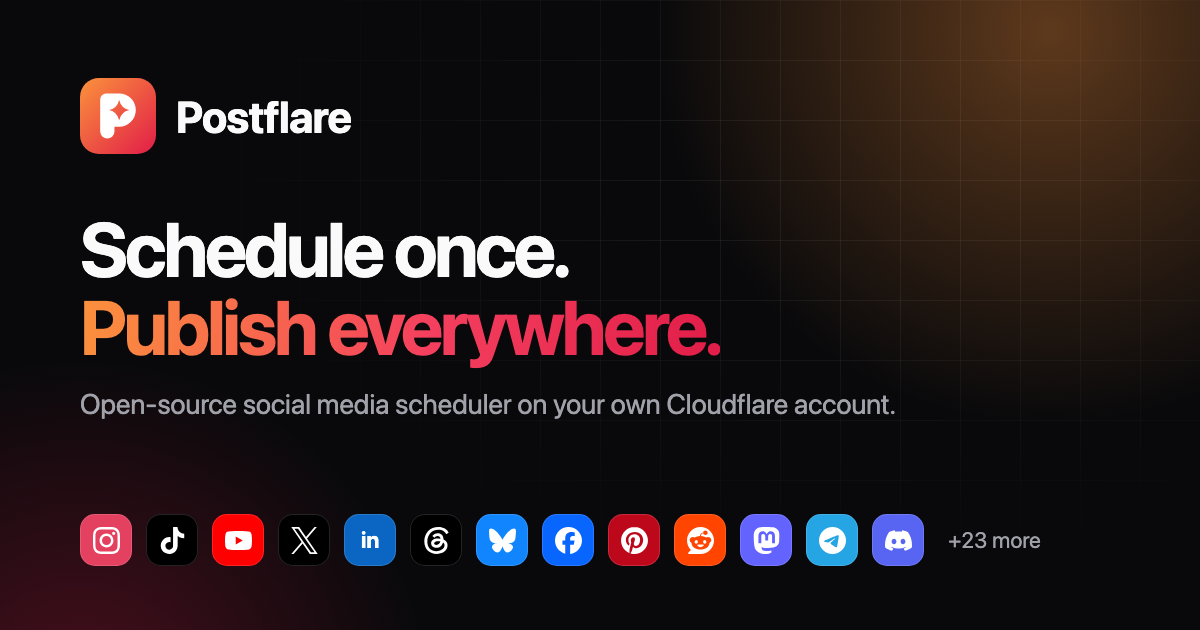
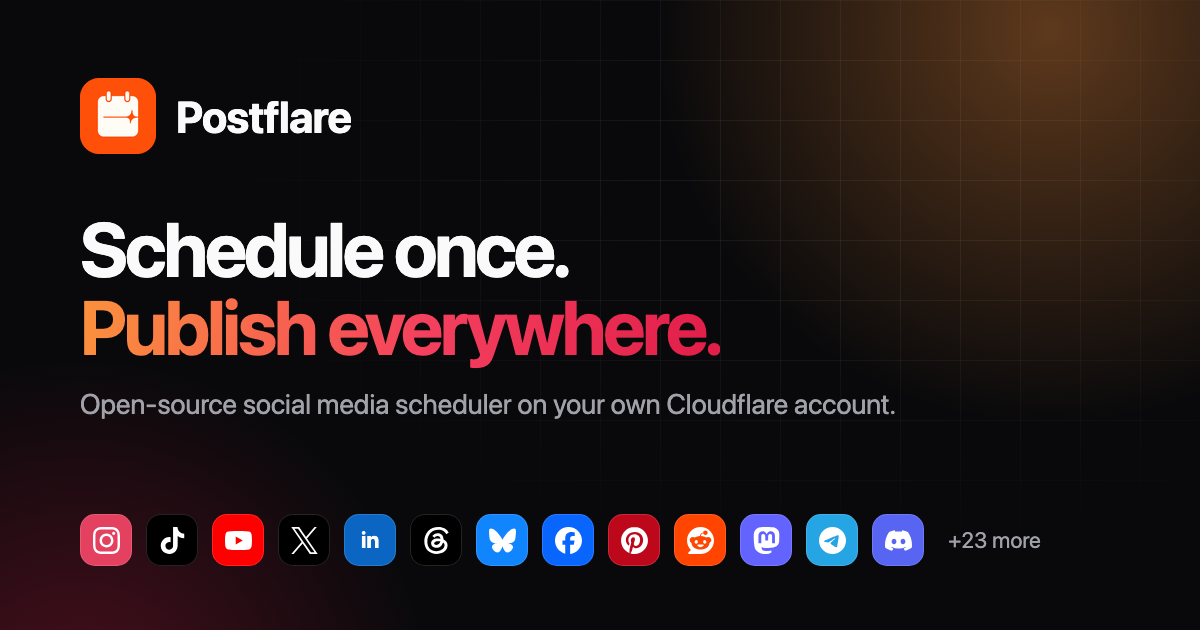
feat: new Postflare mark: a calendar page crossed by the flare on Cloudflare orange

Changed region(s): [[0.0617, 0.1206, 0.1542, 0.2413]]

diff --git a/public/landing/index.html b/public/landing/index.html
@@ -377,7 +377,7 @@ html[data-launched="false"] .nav .wrap{gap:18px}
 <body>
 <svg width="0" height="0" style="position:absolute" aria-hidden="true"><symbol id="i-instagram" viewBox="0 0 24 24"><path d="M7.0301.084c-1.2768.0602-2.1487.264-2.911.5634-.7888.3075-1.4575.72-2.1228 1.3877-.6652.6677-1.075 1.3368-1.3802 2.127-.2954.7638-.4956 1.6365-.552 2.914-.0564 1.2775-.0689 1.6882-.0626 4.947.0062 3.2586.0206 3.6671.0825 4.9473.061 1.2765.264 2.1482.5635 2.9107.308.7889.72 1.4573 1.388 2.1228.6679.6655 1.3365 1.0743 2.1285 1.38.7632.295 1.6361.4961 2.9134.552 1.2773.056 1.6884.069 4.9462.0627 3.2578-.0062 3.668-.0207 4.9478-.0814 1.28-.0607 2.147-.2652 2.9098-.5633.7889-.3086 1.4578-.72 2.1228-1.3881.665-.6682 1.0745-1.3378 1.3795-2.1284.2957-.7632.4966-1.636.552-2.9124.056-1.2809.0692-1.6898.063-4.948-.0063-3.2583-.021-3.6668-.0817-4.9465-.0607-1.2797-.264-2.1487-.5633-2.9117-.3084-.7889-.72-1.4568-1.3876-2.1228C21.2982 1.33 20.628.9208 19.8378.6165 19.074.321 18.2017.1197 16.9244.0645 15.6471.0093 15.236-.005 11.977.0014 8.718.0076 8.31.0215 7.0301.0839m.1402 21.6932c-1.17-.0509-1.8053-.2453-2.2287-.408-.5606-.216-.96-.4771-1.3819-.895-.422-.4178-.6811-.8186-.9-1.378-.1644-.4234-.3624-1.058-.4171-2.228-.0595-1.2645-.072-1.6442-.079-4.848-.007-3.2037.0053-3.583.0607-4.848.05-1.169.2456-1.805.408-2.2282.216-.5613.4762-.96.895-1.3816.4188-.4217.8184-.6814 1.3783-.9003.423-.1651 1.0575-.3614 2.227-.4171 1.2655-.06 1.6447-.072 4.848-.079 3.2033-.007 3.5835.005 4.8495.0608 1.169.0508 1.8053.2445 2.228.408.5608.216.96.4754 1.3816.895.4217.4194.6816.8176.9005 1.3787.1653.4217.3617 1.056.4169 2.2263.0602 1.2655.0739 1.645.0796 4.848.0058 3.203-.0055 3.5834-.061 4.848-.051 1.17-.245 1.8055-.408 2.2294-.216.5604-.4763.96-.8954 1.3814-.419.4215-.8181.6811-1.3783.9-.4224.1649-1.0577.3617-2.2262.4174-1.2656.0595-1.6448.072-4.8493.079-3.2045.007-3.5825-.006-4.848-.0608M16.953 5.5864A1.44 1.44 0 1 0 18.39 4.144a1.44 1.44 0 0 0-1.437 1.4424M5.8385 12.012c.0067 3.4032 2.7706 6.1557 6.173 6.1493 3.4026-.0065 6.157-2.7701 6.1506-6.1733-.0065-3.4032-2.771-6.1565-6.174-6.1498-3.403.0067-6.156 2.771-6.1496 6.1738M8 12.0077a4 4 0 1 1 4.008 3.9921A3.9996 3.9996 0 0 1 8 12.0077"/></symbol><symbol id="i-tiktok" viewBox="0 0 24 24"><path d="M12.525.02c1.31-.02 2.61-.01 3.91-.02.08 1.53.63 3.09 1.75 4.17 1.12 1.11 2.7 1.62 4.24 1.79v4.03c-1.44-.05-2.89-.35-4.2-.97-.57-.26-1.1-.59-1.62-.93-.01 2.92.01 5.84-.02 8.75-.08 1.4-.54 2.79-1.35 3.94-1.31 1.92-3.58 3.17-5.91 3.21-1.43.08-2.86-.31-4.08-1.03-2.02-1.19-3.44-3.37-3.65-5.71-.02-.5-.03-1-.01-1.49.18-1.9 1.12-3.72 2.58-4.96 1.66-1.44 3.98-2.13 6.15-1.72.02 1.48-.04 2.96-.04 4.44-.99-.32-2.15-.23-3.02.37-.63.41-1.11 1.04-1.36 1.75-.21.51-.15 1.07-.14 1.61.24 1.64 1.82 3.02 3.5 2.87 1.12-.01 2.19-.66 2.77-1.61.19-.33.4-.67.41-1.06.1-1.79.06-3.57.07-5.36.01-4.03-.01-8.05.02-12.07z"/></symbol><symbol id="i-youtube" viewBox="0 0 24 24"><path d="M23.498 6.186a3.016 3.016 0 0 0-2.122-2.136C19.505 3.545 12 3.545 12 3.545s-7.505 0-9.377.505A3.017 3.017 0 0 0 .502 6.186C0 8.07 0 12 0 12s0 3.93.502 5.814a3.016 3.016 0 0 0 2.122 2.136c1.871.505 9.376.505 9.376.505s7.505 0 9.377-.505a3.015 3.015 0 0 0 2.122-2.136C24 15.93 24 12 24 12s0-3.93-.502-5.814zM9.545 15.568V8.432L15.818 12l-6.273 3.568z"/></symbol><symbol id="i-x" viewBox="0 0 24 24"><path d="M14.234 10.162 22.977 0h-2.072l-7.591 8.824L7.251 0H.258l9.168 13.343L.258 24H2.33l8.016-9.318L16.749 24h6.993zm-2.837 3.299-.929-1.329L3.076 1.56h3.182l5.965 8.532.929 1.329 7.754 11.09h-3.182z"/></symbol><symbol id="i-facebook" viewBox="0 0 24 24"><path d="M9.101 23.691v-7.98H6.627v-3.667h2.474v-1.58c0-4.085 1.848-5.978 5.858-5.978.401 0 .955.042 1.468.103a8.68 8.68 0 0 1 1.141.195v3.325a8.623 8.623 0 0 0-.653-.036 26.805 26.805 0 0 0-.733-.009c-.707 0-1.259.096-1.675.309a1.686 1.686 0 0 0-.679.622c-.258.42-.374.995-.374 1.752v1.297h3.919l-.386 2.103-.287 1.564h-3.246v8.245C19.396 23.238 24 18.179 24 12.044c0-6.627-5.373-12-12-12s-12 5.373-12 12c0 5.628 3.874 10.35 9.101 11.647Z"/></symbol><symbol id="i-threads" viewBox="0 0 24 24"><path d="M18.263 11.097c-.03-3.486-1.92-5.586-5.111-5.586-2.13 0-3.922.963-4.863 2.499l2.062 1.438c.535-.843 1.272-1.543 2.628-1.543 1.528 0 2.318.85 2.544 2.431a15 15 0 0 0-2.236-.173c-4.125 0-6.068 1.867-6.068 4.336s1.943 3.99 4.804 3.99c3.139 0 5.013-2.115 5.781-4.735.798.361 1.348 1.204 1.348 2.47 0 3.387-3.907 5.232-7.22 5.232-4.885 0-8.077-3.207-8.077-8.424 0-6.392 4.223-10.487 9.9-10.487 3.808 0 5.69 1.671 6.97 3.914l2.108-1.475C21.44 2.078 18.331 0 13.663 0 6.227 0 1.168 5.277 1.168 12.934c0 7 4.953 11.066 10.856 11.066 4.878 0 9.809-2.846 9.809-7.716 0-2.545-1.46-4.231-3.569-5.187m-6.33 4.855c-1.077 0-2.026-.512-2.026-1.453 0-1.483 1.822-1.934 3.606-1.934.678 0 1.34.045 1.927.173-.422 1.927-1.671 3.215-3.508 3.214Z"/></symbol><symbol id="i-bluesky" viewBox="0 0 24 24"><path d="M5.202 2.857C7.954 4.922 10.913 9.11 12 11.358c1.087-2.247 4.046-6.436 6.798-8.501C20.783 1.366 24 .213 24 3.883c0 .732-.42 6.156-.667 7.037-.856 3.061-3.978 3.842-6.755 3.37 4.854.826 6.089 3.562 3.422 6.299-5.065 5.196-7.28-1.304-7.847-2.97-.104-.305-.152-.448-.153-.327 0-.121-.05.022-.153.327-.568 1.666-2.782 8.166-7.847 2.97-2.667-2.737-1.432-5.473 3.422-6.3-2.777.473-5.899-.308-6.755-3.369C.42 10.04 0 4.615 0 3.883c0-3.67 3.217-2.517 5.202-1.026"/></symbol><symbol id="i-pinterest" viewBox="0 0 24 24"><path d="M12.017 0C5.396 0 .029 5.367.029 11.987c0 5.079 3.158 9.417 7.618 11.162-.105-.949-.199-2.403.041-3.439.219-.937 1.406-5.957 1.406-5.957s-.359-.72-.359-1.781c0-1.663.967-2.911 2.168-2.911 1.024 0 1.518.769 1.518 1.688 0 1.029-.653 2.567-.992 3.992-.285 1.193.6 2.165 1.775 2.165 2.128 0 3.768-2.245 3.768-5.487 0-2.861-2.063-4.869-5.008-4.869-3.41 0-5.409 2.562-5.409 5.199 0 1.033.394 2.143.889 2.741.099.12.112.225.085.345-.09.375-.293 1.199-.334 1.363-.053.225-.172.271-.401.165-1.495-.69-2.433-2.878-2.433-4.646 0-3.776 2.748-7.252 7.92-7.252 4.158 0 7.392 2.967 7.392 6.923 0 4.135-2.607 7.462-6.233 7.462-1.214 0-2.354-.629-2.758-1.379l-.749 2.848c-.269 1.045-1.004 2.352-1.498 3.146 1.123.345 2.306.535 3.55.535 6.607 0 11.985-5.365 11.985-11.987C23.97 5.39 18.592.026 11.985.026L12.017 0z"/></symbol><symbol id="i-reddit" viewBox="0 0 24 24"><path d="M12 0C5.373 0 0 5.373 0 12c0 3.314 1.343 6.314 3.515 8.485l-2.286 2.286C.775 23.225 1.097 24 1.738 24H12c6.627 0 12-5.373 12-12S18.627 0 12 0Zm4.388 3.199c1.104 0 1.999.895 1.999 1.999 0 1.105-.895 2-1.999 2-.946 0-1.739-.657-1.947-1.539v.002c-1.147.162-2.032 1.15-2.032 2.341v.007c1.776.067 3.4.567 4.686 1.363.473-.363 1.064-.58 1.707-.58 1.547 0 2.802 1.254 2.802 2.802 0 1.117-.655 2.081-1.601 2.531-.088 3.256-3.637 5.876-7.997 5.876-4.361 0-7.905-2.617-7.998-5.87-.954-.447-1.614-1.415-1.614-2.538 0-1.548 1.255-2.802 2.803-2.802.645 0 1.239.218 1.712.585 1.275-.79 2.881-1.291 4.64-1.365v-.01c0-1.663 1.263-3.034 2.88-3.207.188-.911.993-1.595 1.959-1.595Zm-8.085 8.376c-.784 0-1.459.78-1.506 1.797-.047 1.016.64 1.429 1.426 1.429.786 0 1.371-.369 1.418-1.385.047-1.017-.553-1.841-1.338-1.841Zm7.406 0c-.786 0-1.385.824-1.338 1.841.047 1.017.634 1.385 1.418 1.385.785 0 1.473-.413 1.426-1.429-.046-1.017-.721-1.797-1.506-1.797Zm-3.703 4.013c-.974 0-1.907.048-2.77.135-.147.015-.241.168-.183.305.483 1.154 1.622 1.964 2.953 1.964 1.33 0 2.47-.81 2.953-1.964.057-.137-.037-.29-.184-.305-.863-.087-1.795-.135-2.769-.135Z"/></symbol><symbol id="i-mastodon" viewBox="0 0 24 24"><path d="M23.268 5.313c-.35-2.578-2.617-4.61-5.304-5.004C17.51.242 15.792 0 11.813 0h-.03c-3.98 0-4.835.242-5.288.309C3.882.692 1.496 2.518.917 5.127.64 6.412.61 7.837.661 9.143c.074 1.874.088 3.745.26 5.611.118 1.24.325 2.47.62 3.68.55 2.237 2.777 4.098 4.96 4.857 2.336.792 4.849.923 7.256.38.265-.061.527-.132.786-.213.585-.184 1.27-.39 1.774-.753a.057.057 0 0 0 .023-.043v-1.809a.052.052 0 0 0-.02-.041.053.053 0 0 0-.046-.01 20.282 20.282 0 0 1-4.709.545c-2.73 0-3.463-1.284-3.674-1.818a5.593 5.593 0 0 1-.319-1.433.053.053 0 0 1 .066-.054c1.517.363 3.072.546 4.632.546.376 0 .75 0 1.125-.01 1.57-.044 3.224-.124 4.768-.422.038-.008.077-.015.11-.024 2.435-.464 4.753-1.92 4.989-5.604.008-.145.03-1.52.03-1.67.002-.512.167-3.63-.024-5.545zm-3.748 9.195h-2.561V8.29c0-1.309-.55-1.976-1.67-1.976-1.23 0-1.846.79-1.846 2.35v3.403h-2.546V8.663c0-1.56-.617-2.35-1.848-2.35-1.112 0-1.668.668-1.67 1.977v6.218H4.822V8.102c0-1.31.337-2.35 1.011-3.12.696-.77 1.608-1.164 2.74-1.164 1.311 0 2.302.5 2.962 1.498l.638 1.06.638-1.06c.66-.999 1.65-1.498 2.96-1.498 1.13 0 2.043.395 2.74 1.164.675.77 1.012 1.81 1.012 3.12z"/></symbol><symbol id="i-telegram" viewBox="0 0 24 24"><path d="M11.944 0A12 12 0 0 0 0 12a12 12 0 0 0 12 12 12 12 0 0 0 12-12A12 12 0 0 0 12 0a12 12 0 0 0-.056 0zm4.962 7.224c.1-.002.321.023.465.14a.506.506 0 0 1 .171.325c.016.093.036.306.02.472-.18 1.898-.962 6.502-1.36 8.627-.168.9-.499 1.201-.82 1.23-.696.065-1.225-.46-1.9-.902-1.056-.693-1.653-1.124-2.678-1.8-1.185-.78-.417-1.21.258-1.91.177-.184 3.247-2.977 3.307-3.23.007-.032.014-.15-.056-.212s-.174-.041-.249-.024c-.106.024-1.793 1.14-5.061 3.345-.48.33-.913.49-1.302.48-.428-.008-1.252-.241-1.865-.44-.752-.245-1.349-.374-1.297-.789.027-.216.325-.437.893-.663 3.498-1.524 5.83-2.529 6.998-3.014 3.332-1.386 4.025-1.627 4.476-1.635z"/></symbol><symbol id="i-discord" viewBox="0 0 24 24"><path d="M20.317 4.3698a19.7913 19.7913 0 00-4.8851-1.5152.0741.0741 0 00-.0785.0371c-.211.3753-.4447.8648-.6083 1.2495-1.8447-.2762-3.68-.2762-5.4868 0-.1636-.3933-.4058-.8742-.6177-1.2495a.077.077 0 00-.0785-.037 19.7363 19.7363 0 00-4.8852 1.515.0699.0699 0 00-.0321.0277C.5334 9.0458-.319 13.5799.0992 18.0578a.0824.0824 0 00.0312.0561c2.0528 1.5076 4.0413 2.4228 5.9929 3.0294a.0777.0777 0 00.0842-.0276c.4616-.6304.8731-1.2952 1.226-1.9942a.076.076 0 00-.0416-.1057c-.6528-.2476-1.2743-.5495-1.8722-.8923a.077.077 0 01-.0076-.1277c.1258-.0943.2517-.1923.3718-.2914a.0743.0743 0 01.0776-.0105c3.9278 1.7933 8.18 1.7933 12.0614 0a.0739.0739 0 01.0785.0095c.1202.099.246.1981.3728.2924a.077.077 0 01-.0066.1276 12.2986 12.2986 0 01-1.873.8914.0766.0766 0 00-.0407.1067c.3604.698.7719 1.3628 1.225 1.9932a.076.076 0 00.0842.0286c1.961-.6067 3.9495-1.5219 6.0023-3.0294a.077.077 0 00.0313-.0552c.5004-5.177-.8382-9.6739-3.5485-13.6604a.061.061 0 00-.0312-.0286zM8.02 15.3312c-1.1825 0-2.1569-1.0857-2.1569-2.419 0-1.3332.9555-2.4189 2.157-2.4189 1.2108 0 2.1757 1.0952 2.1568 2.419 0 1.3332-.9555 2.4189-2.1569 2.4189zm7.9748 0c-1.1825 0-2.1569-1.0857-2.1569-2.419 0-1.3332.9554-2.4189 2.1569-2.4189 1.2108 0 2.1757 1.0952 2.1568 2.419 0 1.3332-.946 2.4189-2.1568 2.4189Z"/></symbol><symbol id="i-google" viewBox="0 0 24 24"><path d="M12.48 10.92v3.28h7.84c-.24 1.84-.853 3.187-1.787 4.133-1.147 1.147-2.933 2.4-6.053 2.4-4.827 0-8.6-3.893-8.6-8.72s3.773-8.72 8.6-8.72c2.6 0 4.507 1.027 5.907 2.347l2.307-2.307C18.747 1.44 16.133 0 12.48 0 5.867 0 .307 5.387.307 12s5.56 12 12.173 12c3.573 0 6.267-1.173 8.373-3.36 2.16-2.16 2.84-5.213 2.84-7.667 0-.76-.053-1.467-.173-2.053H12.48z"/></symbol><symbol id="i-tumblr" viewBox="0 0 24 24"><path d="M14.563 24c-5.093 0-7.031-3.756-7.031-6.411V9.747H5.116V6.648c3.63-1.313 4.512-4.596 4.71-6.469C9.84.051 9.941 0 9.999 0h3.517v6.114h4.801v3.633h-4.82v7.47c.016 1.001.375 2.371 2.207 2.371h.09c.631-.02 1.486-.205 1.936-.419l1.156 3.425c-.436.636-2.4 1.374-4.156 1.404h-.178l.011.002z"/></symbol><symbol id="i-twitch" viewBox="0 0 24 24"><path d="M11.571 4.714h1.715v5.143H11.57zm4.715 0H18v5.143h-1.714zM6 0L1.714 4.286v15.428h5.143V24l4.286-4.286h3.428L22.286 12V0zm14.571 11.143l-3.428 3.428h-3.429l-3 3v-3H6.857V1.714h13.714Z"/></symbol><symbol id="i-kick" viewBox="0 0 24 24"><path d="M1.333 0h8v5.333H12V2.667h2.667V0h8v8H20v2.667h-2.667v2.666H20V16h2.667v8h-8v-2.667H12v-2.666H9.333V24h-8Z"/></symbol><symbol id="i-vk" viewBox="0 0 24 24"><path d="m9.489.004.729-.003h3.564l.73.003.914.01.433.007.418.011.403.014.388.016.374.021.36.025.345.03.333.033c1.74.196 2.933.616 3.833 1.516.9.9 1.32 2.092 1.516 3.833l.034.333.029.346.025.36.02.373.025.588.012.41.013.644.009.915.004.98-.001 3.313-.003.73-.01.914-.007.433-.011.418-.014.403-.016.388-.021.374-.025.36-.03.345-.033.333c-.196 1.74-.616 2.933-1.516 3.833-.9.9-2.092 1.32-3.833 1.516l-.333.034-.346.029-.36.025-.373.02-.588.025-.41.012-.644.013-.915.009-.98.004-3.313-.001-.73-.003-.914-.01-.433-.007-.418-.011-.403-.014-.388-.016-.374-.021-.36-.025-.345-.03-.333-.033c-1.74-.196-2.933-.616-3.833-1.516-.9-.9-1.32-2.092-1.516-3.833l-.034-.333-.029-.346-.025-.36-.02-.373-.025-.588-.012-.41-.013-.644-.009-.915-.004-.98.001-3.313.003-.73.01-.914.007-.433.011-.418.014-.403.016-.388.021-.374.025-.36.03-.345.033-.333c.196-1.74.616-2.933 1.516-3.833.9-.9 2.092-1.32 3.833-1.516l.333-.034.346-.029.36-.025.373-.02.588-.025.41-.012.644-.013.915-.009ZM6.79 7.3H4.05c.13 6.24 3.25 9.99 8.72 9.99h.31v-3.57c2.01.2 3.53 1.67 4.14 3.57h2.84c-.78-2.84-2.83-4.41-4.11-5.01 1.28-.74 3.08-2.54 3.51-4.98h-2.58c-.56 1.98-2.22 3.78-3.8 3.95V7.3H10.5v6.92c-1.6-.4-3.62-2.34-3.71-6.92Z"/></symbol><symbol id="i-mewe" viewBox="0 0 24 24"><path d="M3.029 7.712a.768.768 0 100 1.536.768.768 0 000-1.536zm7.883 0a.768.768 0 100 1.536.768.768 0 000-1.536zm4.414 0a.768.768 0 100 1.536.768.768 0 000-1.536zm4.418 0a.768.768 0 100 1.537.768.768 0 000-1.537zm-4.447 2.307c-.27 0-.453.175-.54.428l-1.378 4.175-1.403-4.193a.546.546 0 00-.532-.392c-.296 0-.55.227-.55.523 0 .07.018.148.044.21l1.805 5.056c.105.279.296.444.558.444h.105c.261 0 .461-.165.557-.444l1.36-3.985 1.36 3.985c.096.279.288.444.55.444h.105c.261 0 .462-.174.558-.444l1.804-5.057a.617.617 0 00.052-.218.525.525 0 00-.531-.514c-.262 0-.445.166-.523.383l-1.404 4.202-1.377-4.175c-.079-.253-.27-.428-.541-.428zM.54 10.045a.538.538 0 00-.54.541v5.117c0 .297.227.523.523.523a.52.52 0 00.532-.523V12.05l1.482 2.224c.113.174.253.279.444.279.201 0 .34-.105.454-.28l1.49-2.24v3.661a.54.54 0 00.533.532.53.53 0 00.54-.532v-5.108a.538.538 0 00-.54-.54h-.114a.54.54 0 00-.488.278L3 13.227 1.15 10.333a.565.565 0 00-.497-.288zm8.368 1.439c-1.316 0-2.25 1.081-2.25 2.397v.018c0 1.42 1.03 2.389 2.363 2.389.715 0 1.239-.236 1.657-.61a.46.46 0 00.14-.323.415.415 0 00-.419-.427.391.391 0 00-.27.096 1.655 1.655 0 01-1.09.4c-.68 0-1.212-.418-1.325-1.168h2.885c.27 0 .497-.209.497-.505 0-1.064-.723-2.267-2.188-2.267zm12.904 0c-1.317 0-2.25 1.081-2.25 2.397v.018c0 1.42 1.029 2.389 2.363 2.389.715 0 1.238-.236 1.657-.61a.46.46 0 00.139-.323.415.415 0 00-.418-.427.392.392 0 00-.271.096 1.652 1.652 0 01-1.09.4c-.68 0-1.211-.418-1.325-1.168h2.886c.27 0 .497-.209.497-.505 0-1.064-.724-2.267-2.188-2.267zm-12.913.863c.698 0 1.099.532 1.169 1.212H7.705c.096-.715.549-1.212 1.194-1.212zm12.904 0c.697 0 1.098.532 1.168 1.212h-2.363c.096-.715.55-1.212 1.195-1.212z"/></symbol><symbol id="i-farcaster" viewBox="0 0 24 24"><path d="M18.24.24H5.76C2.5789.24 0 2.8188 0 6v12c0 3.1811 2.5789 5.76 5.76 5.76h12.48c3.1812 0 5.76-2.5789 5.76-5.76V6C24 2.8188 21.4212.24 18.24.24m.8155 17.1662v.504c.2868-.0256.5458.1905.5439.479v.5688h-5.1437v-.5688c-.0019-.2885.2576-.5047.5443-.479v-.504c0-.22.1525-.402.358-.458l-.0095-4.3645c-.1589-1.7366-1.6402-3.0979-3.4435-3.0979-1.8038 0-3.2846 1.3613-3.4435 3.0979l-.0096 4.3578c.2276.0424.5318.2083.5395.4648v.504c.2863-.0256.5457.1905.5438.479v.5688H4.3915v-.5688c-.0019-.2885.2575-.5047.5438-.479v-.504c0-.2529.2011-.4548.4536-.4724v-7.895h-.4905L4.2898 7.008l2.6405-.0005V5.0419h9.9495v1.9656h2.8219l-.6091 2.0314h-.4901v7.8949c.2519.0177.453.2195.453.4724"/></symbol><symbol id="i-lemmy" viewBox="0 0 24 24"><path d="M2.9595 4.2228a3.9132 3.9132 0 0 0-.332.019c-.8781.1012-1.67.5699-2.155 1.3862-.475.8-.5922 1.6809-.35 2.4971.2421.8162.8297 1.5575 1.6982 2.1449.0053.0035.0106.0076.0163.0114.746.4498 1.492.7431 2.2877.8994-.02.3318-.0272.6689-.006 1.0181.0634 1.0432.4368 2.0006.996 2.8492l-2.0061.8189a.4163.4163 0 0 0-.2276.2239.416.416 0 0 0 .0879.455.415.415 0 0 0 .2941.1231.4156.4156 0 0 0 .1595-.0312l2.2093-.9035c.408.4859.8695.9315 1.3723 1.318.0196.0151.0407.0264.0603.0423l-1.2918 1.7103a.416.416 0 0 0 .664.501l1.314-1.7385c.7185.4548 1.4782.7927 2.2294 1.0242.3833.7209 1.1379 1.1871 2.0202 1.1871.8907 0 1.6442-.501 2.0242-1.2072.744-.2347 1.4959-.5729 2.2073-1.0262l1.332 1.7606a.4157.4157 0 0 0 .7439-.1936.4165.4165 0 0 0-.0799-.3074l-1.3099-1.7345c.0083-.0075.0178-.0113.0261-.0188.4968-.3803.9549-.8175 1.3622-1.2939l2.155.8794a.4156.4156 0 0 0 .5412-.2276.4151.4151 0 0 0-.2273-.5432l-1.9438-.7928c.577-.8538.9697-1.8183 1.0504-2.8693.0268-.3507.0242-.6914.0079-1.0262.7905-.1572 1.5321-.4502 2.2737-.8974.0053-.0033.011-.0076.0163-.0113.8684-.5874 1.456-1.3287 1.6982-2.145.2421-.8161.125-1.697-.3501-2.497-.4849-.8163-1.2768-1.2852-2.155-1.3863a3.2175 3.2175 0 0 0-.332-.0189c-.7852-.0151-1.6231.229-2.4286.6942-.5926.342-1.1252.867-1.5433 1.4387-1.1699-.6703-2.6923-1.0476-4.5635-1.0785a15.5768 15.5768 0 0 0-.5111 0c-2.085.034-3.7537.43-5.0142 1.1449-.0033-.0038-.0045-.0114-.008-.0152-.4233-.5916-.973-1.1365-1.5835-1.489-.8055-.465-1.6434-.7083-2.4286-.6941Zm.2858.7365c.5568.042 1.1696.2358 1.7787.5875.485.28.9757.7554 1.346 1.2696a5.6875 5.6875 0 0 0-.4969.4085c-.9201.8516-1.4615 1.9597-1.668 3.2335-.6809-.1402-1.3183-.3945-1.984-.7948-.7553-.5128-1.2159-1.1225-1.4004-1.7445-.1851-.624-.1074-1.2712.2776-1.9196.3743-.63.9275-.9534 1.6118-1.0322a2.796 2.796 0 0 1 .5352-.0076Zm17.5094 0a2.797 2.797 0 0 1 .5353.0075c.6842.0786 1.2374.4021 1.6117 1.0322.385.6484.4627 1.2957.2776 1.9196-.1845.622-.645 1.2317-1.4004 1.7445-.6578.3955-1.2881.6472-1.9598.7888-.1942-1.2968-.7375-2.4338-1.666-3.302a5.5639 5.5639 0 0 0-.4709-.3923c.3645-.49.8287-.9428 1.2938-1.2113.6091-.3515 1.2219-.5454 1.7787-.5875ZM12.006 6.0036a14.832 14.832 0 0 1 .487 0c2.3901.0393 4.0848.67 5.1631 1.678 1.1501 1.0754 1.6423 2.6006 1.499 4.467-.1311 1.7079-1.2203 3.2281-2.652 4.324-.694.5313-1.4626.9354-2.2254 1.2294.0031-.0453.014-.0888.014-.1349.0029-1.1964-.9313-2.2133-2.2918-2.2133-1.3606 0-2.3222 1.0154-2.2918 2.2213.0013.0507.014.0972.0181.1471-.781-.2933-1.5696-.7013-2.2777-1.2456-1.4239-1.0945-2.4997-2.6129-2.6037-4.322-.1129-1.8567.3778-3.3382 1.5212-4.3965C7.5094 6.7 9.352 6.047 12.006 6.0036Zm-3.6419 6.8291c-.6053 0-1.0966.4903-1.0966 1.0966 0 .6063.4913 1.0986 1.0966 1.0986s1.0966-.4923 1.0966-1.0986c0-.6063-.4913-1.0966-1.0966-1.0966zm7.2819.0113c-.5998 0-1.0866.4859-1.0866 1.0866s.4868 1.0885 1.0866 1.0885c.5997 0 1.0865-.4878 1.0865-1.0885s-.4868-1.0866-1.0865-1.0866zM12 16.0835c1.0237 0 1.5654.638 1.5634 1.4829-.0018.7849-.6723 1.485-1.5634 1.485-.9167 0-1.54-.5629-1.5634-1.493-.0212-.8347.5397-1.4749 1.5634-1.4749Z"/></symbol><symbol id="i-dribbble" viewBox="0 0 24 24"><path d="M12 24C5.385 24 0 18.615 0 12S5.385 0 12 0s12 5.385 12 12-5.385 12-12 12zm10.12-10.358c-.35-.11-3.17-.953-6.384-.438 1.34 3.684 1.887 6.684 1.992 7.308 2.3-1.555 3.936-4.02 4.395-6.87zm-6.115 7.808c-.153-.9-.75-4.032-2.19-7.77l-.066.02c-5.79 2.015-7.86 6.025-8.04 6.4 1.73 1.358 3.92 2.166 6.29 2.166 1.42 0 2.77-.29 4-.814zm-11.62-2.58c.232-.4 3.045-5.055 8.332-6.765.135-.045.27-.084.405-.12-.26-.585-.54-1.167-.832-1.74C7.17 11.775 2.206 11.71 1.756 11.7l-.004.312c0 2.633.998 5.037 2.634 6.855zm-2.42-8.955c.46.008 4.683.026 9.477-1.248-1.698-3.018-3.53-5.558-3.8-5.928-2.868 1.35-5.01 3.99-5.676 7.17zM9.6 2.052c.282.38 2.145 2.914 3.822 6 3.645-1.365 5.19-3.44 5.373-3.702-1.81-1.61-4.19-2.586-6.795-2.586-.825 0-1.63.1-2.4.285zm10.335 3.483c-.218.29-1.935 2.493-5.724 4.04.24.49.47.985.68 1.486.08.18.15.36.22.53 3.41-.43 6.8.26 7.14.33-.02-2.42-.88-4.64-2.31-6.38z"/></symbol><symbol id="i-medium" viewBox="0 0 24 24"><path d="M4.21 0A4.201 4.201 0 0 0 0 4.21v15.58A4.201 4.201 0 0 0 4.21 24h15.58A4.201 4.201 0 0 0 24 19.79v-1.093c-.137.013-.278.02-.422.02-2.577 0-4.027-2.146-4.09-4.832a7.592 7.592 0 0 1 .022-.708c.093-1.186.475-2.241 1.105-3.022a3.885 3.885 0 0 1 1.395-1.1c.468-.237 1.127-.367 1.664-.367h.023c.101 0 .202.004.303.01V4.211A4.201 4.201 0 0 0 19.79 0Zm.198 5.583h4.165l3.588 8.435 3.59-8.435h3.864v.146l-.019.004c-.705.16-1.063.397-1.063 1.254h-.003l.003 10.274c.06.676.424.885 1.063 1.03l.02.004v.145h-4.923v-.145l.019-.005c.639-.144.994-.353 1.054-1.03V7.267l-4.745 11.15h-.261L6.15 7.569v9.445c0 .857.358 1.094 1.063 1.253l.02.004v.147H4.405v-.147l.019-.004c.705-.16 1.065-.397 1.065-1.253V6.987c0-.857-.358-1.094-1.064-1.254l-.018-.004zm19.25 3.668c-1.086.023-1.733 1.323-1.813 3.124H24V9.298a1.378 1.378 0 0 0-.342-.047Zm-1.862 3.632c-.1 1.756.86 3.239 2.204 3.634v-3.634z"/></symbol><symbol id="i-devdotto" viewBox="0 0 24 24"><path d="M7.42 10.05c-.18-.16-.46-.23-.84-.23H6l.02 2.44.04 2.45.56-.02c.41 0 .63-.07.83-.26.24-.24.26-.36.26-2.2 0-1.91-.02-1.96-.29-2.18zM0 4.94v14.12h24V4.94H0zM8.56 15.3c-.44.58-1.06.77-2.53.77H4.71V8.53h1.4c1.67 0 2.16.18 2.6.9.27.43.29.6.32 2.57.05 2.23-.02 2.73-.47 3.3zm5.09-5.47h-2.47v1.77h1.52v1.28l-.72.04-.75.03v1.77l1.22.03 1.2.04v1.28h-1.6c-1.53 0-1.6-.01-1.87-.3l-.3-.28v-3.16c0-3.02.01-3.18.25-3.48.23-.31.25-.31 1.88-.31h1.64v1.3zm4.68 5.45c-.17.43-.64.79-1 .79-.18 0-.45-.15-.67-.39-.32-.32-.45-.63-.82-2.08l-.9-3.39-.45-1.67h.76c.4 0 .75.02.75.05 0 .06 1.16 4.54 1.26 4.83.04.15.32-.7.73-2.3l.66-2.52.74-.04c.4-.02.73 0 .73.04 0 .14-1.67 6.38-1.8 6.68z"/></symbol><symbol id="i-hashnode" viewBox="0 0 24 24"><path d="M22.351 8.019l-6.37-6.37a5.63 5.63 0 0 0-7.962 0l-6.37 6.37a5.63 5.63 0 0 0 0 7.962l6.37 6.37a5.63 5.63 0 0 0 7.962 0l6.37-6.37a5.63 5.63 0 0 0 0-7.962zM12 15.953a3.953 3.953 0 1 1 0-7.906 3.953 3.953 0 0 1 0 7.906z"/></symbol><symbol id="i-wordpress" viewBox="0 0 24 24"><path d="M21.469 6.825c.84 1.537 1.318 3.3 1.318 5.175 0 3.979-2.156 7.456-5.363 9.325l3.295-9.527c.615-1.54.82-2.771.82-3.864 0-.405-.026-.78-.07-1.11m-7.981.105c.647-.03 1.232-.105 1.232-.105.582-.075.514-.93-.067-.899 0 0-1.755.135-2.88.135-1.064 0-2.85-.15-2.85-.15-.585-.03-.661.855-.075.885 0 0 .54.061 1.125.09l1.68 4.605-2.37 7.08L5.354 6.9c.649-.03 1.234-.1 1.234-.1.585-.075.516-.93-.065-.896 0 0-1.746.138-2.874.138-.2 0-.438-.008-.69-.015C4.911 3.15 8.235 1.215 12 1.215c2.809 0 5.365 1.072 7.286 2.833-.046-.003-.091-.009-.141-.009-1.06 0-1.812.923-1.812 1.914 0 .89.513 1.643 1.06 2.531.411.72.89 1.643.89 2.977 0 .915-.354 1.994-.821 3.479l-1.075 3.585-3.9-11.61.001.014zM12 22.784c-1.059 0-2.081-.153-3.048-.437l3.237-9.406 3.315 9.087c.024.053.05.101.078.149-1.12.393-2.325.609-3.582.609M1.211 12c0-1.564.336-3.05.935-4.39L7.29 21.709C3.694 19.96 1.212 16.271 1.211 12M12 0C5.385 0 0 5.385 0 12s5.385 12 12 12 12-5.385 12-12S18.615 0 12 0"/></symbol><symbol id="i-listmonk" viewBox="0 0 24 24"><path d="M12 0A12 12 0 0 0 0 12a12 12 0 0 0 12 12 12 12 0 0 0 12-12A12 12 0 0 0 12 0m0 5.1953A6.8047 6.8047 0 0 1 18.8047 12 6.8047 6.8047 0 0 1 12 18.8047 6.8047 6.8047 0 0 1 5.1953 12 6.8047 6.8047 0 0 1 12 5.1953"/></symbol><symbol id="i-github" viewBox="0 0 24 24"><path d="M12 .297c-6.63 0-12 5.373-12 12 0 5.303 3.438 9.8 8.205 11.385.6.113.82-.258.82-.577 0-.285-.01-1.04-.015-2.04-3.338.724-4.042-1.61-4.042-1.61C4.422 18.07 3.633 17.7 3.633 17.7c-1.087-.744.084-.729.084-.729 1.205.084 1.838 1.236 1.838 1.236 1.07 1.835 2.809 1.305 3.495.998.108-.776.417-1.305.76-1.605-2.665-.3-5.466-1.332-5.466-5.93 0-1.31.465-2.38 1.235-3.22-.135-.303-.54-1.523.105-3.176 0 0 1.005-.322 3.3 1.23.96-.267 1.98-.399 3-.405 1.02.006 2.04.138 3 .405 2.28-1.552 3.285-1.23 3.285-1.23.645 1.653.24 2.873.12 3.176.765.84 1.23 1.91 1.23 3.22 0 4.61-2.805 5.625-5.475 5.92.42.36.81 1.096.81 2.22 0 1.606-.015 2.896-.015 3.286 0 .315.21.69.825.57C20.565 22.092 24 17.592 24 12.297c0-6.627-5.373-12-12-12"/></symbol><symbol id="i-cloudflare" viewBox="0 0 24 24"><path d="M16.5088 16.8447c.1475-.5068.0908-.9707-.1553-1.3154-.2246-.3164-.6045-.499-1.0615-.5205l-8.6592-.1123a.1559.1559 0 0 1-.1333-.0713c-.0283-.042-.0351-.0986-.021-.1553.0278-.084.1123-.1484.2036-.1562l8.7359-.1123c1.0351-.0489 2.1601-.8868 2.5537-1.9136l.499-1.3013c.0215-.0561.0293-.1128.0147-.168-.5625-2.5463-2.835-4.4453-5.5499-4.4453-2.5039 0-4.6284 1.6177-5.3876 3.8614-.4927-.3658-1.1187-.5625-1.794-.499-1.2026.119-2.1665 1.083-2.2861 2.2856-.0283.31-.0069.6128.0635.894C1.5683 13.171 0 14.7754 0 16.752c0 .1748.0142.3515.0352.5273.0141.083.0844.1475.1689.1475h15.9814c.0909 0 .1758-.0645.2032-.1553l.12-.4268zm2.7568-5.5634c-.0771 0-.1611 0-.2383.0112-.0566 0-.1054.0415-.127.0976l-.3378 1.1744c-.1475.5068-.0918.9707.1543 1.3164.2256.3164.6055.498 1.0625.5195l1.8437.1133c.0557 0 .1055.0263.1329.0703.0283.043.0351.1074.0214.1562-.0283.084-.1132.1485-.204.1553l-1.921.1123c-1.041.0488-2.1582.8867-2.5527 1.914l-.1406.3585c-.0283.0713.0215.1416.0986.1416h6.5977c.0771 0 .1474-.0489.169-.126.1122-.4082.1757-.837.1757-1.2803 0-2.6025-2.125-4.727-4.7344-4.727"/></symbol><symbol id="i-claude" viewBox="0 0 24 24"><path d="m4.7144 15.9555 4.7174-2.6471.079-.2307-.079-.1275h-.2307l-.7893-.0486-2.6956-.0729-2.3375-.0971-2.2646-.1214-.5707-.1215-.5343-.7042.0546-.3522.4797-.3218.686.0608 1.5179.1032 2.2767.1578 1.6514.0972 2.4468.255h.3886l.0546-.1579-.1336-.0971-.1032-.0972L6.973 9.8356l-2.55-1.6879-1.3356-.9714-.7225-.4918-.3643-.4614-.1578-1.0078.6557-.7225.8803.0607.2246.0607.8925.686 1.9064 1.4754 2.4893 1.8336.3643.3035.1457-.1032.0182-.0728-.164-.2733-1.3539-2.4467-1.445-2.4893-.6435-1.032-.17-.6194c-.0607-.255-.1032-.4674-.1032-.7285L6.287.1335 6.6997 0l.9957.1336.419.3642.6192 1.4147 1.0018 2.2282 1.5543 3.0296.4553.8985.2429.8318.091.255h.1579v-.1457l.1275-1.706.2368-2.0947.2307-2.6957.0789-.7589.3764-.9107.7468-.4918.5828.2793.4797.686-.0668.4433-.2853 1.8517-.5586 2.9021-.3643 1.9429h.2125l.2429-.2429.9835-1.3053 1.6514-2.0643.7286-.8196.85-.9046.5464-.4311h1.0321l.759 1.1293-.34 1.1657-1.0625 1.3478-.8804 1.1414-1.2628 1.7-.7893 1.36.0729.1093.1882-.0183 2.8535-.607 1.5421-.2794 1.8396-.3157.8318.3886.091.3946-.3278.8075-1.967.4857-2.3072.4614-3.4364.8136-.0425.0304.0486.0607 1.5482.1457.6618.0364h1.621l3.0175.2247.7892.522.4736.6376-.079.4857-1.2142.6193-1.6393-.3886-3.825-.9107-1.3113-.3279h-.1822v.1093l1.0929 1.0686 2.0035 1.8092 2.5075 2.3314.1275.5768-.3218.4554-.34-.0486-2.2039-1.6575-.85-.7468-1.9246-1.621h-.1275v.17l.4432.6496 2.3436 3.5214.1214 1.0807-.17.3521-.6071.2125-.6679-.1214-1.3721-1.9246L14.38 17.959l-1.1414-1.9428-.1397.079-.674 7.2552-.3156.3703-.7286.2793-.6071-.4614-.3218-.7468.3218-1.4753.3886-1.9246.3157-1.53.2853-1.9004.17-.6314-.0121-.0425-.1397.0182-1.4328 1.9672-2.1796 2.9446-1.7243 1.8456-.4128.164-.7164-.3704.0667-.6618.4008-.5889 2.386-3.0357 1.4389-1.882.929-1.0868-.0062-.1579h-.0546l-6.3385 4.1164-1.1293.1457-.4857-.4554.0608-.7467.2307-.2429 1.9064-1.3114Z"/></symbol><symbol id="i-hook" viewBox="0 0 24 24" fill="none" stroke="currentColor" stroke-width="2" stroke-linecap="round" stroke-linejoin="round"><path d="M18 16.98h-5.99c-1.1 0-1.95.94-2.48 1.9A4 4 0 0 1 2 17c.01-.7.2-1.4.57-2"/><path d="m6 17 3.13-5.78c.53-.97.1-2.18-.5-3.1a4 4 0 1 1 6.89-4.06"/><path d="m12 6 3.13 5.73C15.66 12.7 16.9 13 18 13a4 4 0 0 1 0 8"/></symbol></svg>
 <svg width="0" height="0" style="position:absolute" aria-hidden="true"><defs><linearGradient id="pfg" x1="0" y1="0" x2="1" y2="1"><stop offset="0" stop-color="#fb923c"/><stop offset="1" stop-color="#e11d48"/></linearGradient></defs>
-<symbol id="logo" viewBox="0 0 64 64"><rect width="64" height="64" rx="16" fill="url(#pfg)"/><path fill="#fff" fill-rule="evenodd" d="M17 18a5 5 0 0 1 5-5h11a14 14 0 0 1 0 28h-4v4a6 6 0 0 1-12 0ZM33 18.5Q34.6 25.4 41.5 27Q34.6 28.6 33 35.5Q31.4 28.6 24.5 27Q31.4 25.4 33 18.5Z"/></symbol></svg>
+<symbol id="logo" viewBox="0 0 1024 1024"><rect width="1024" height="1024" rx="256" fill="#FF500A"/><path transform="scale(0.5) translate(0.000000,2048.000000) scale(0.100000,-0.100000)" fill="#FFFBF5" d="M7640 16865 c-218 -50 -373 -212 -409 -426 -15 -92 -15 -1598 0 -1688 42 -248 257 -431 503 -431 233 0 407 127 497 360 11 28 14 201 14 920 l0 885 -24 60 c-96 236 -347 374 -581 320zM12650 16865 c-222 -50 -374 -198 -410 -397 -17 -93 -9 -1755 9 -1793 8 -16 24 -54 38 -83 30 -69 141 -179 217 -216 324 -159 688 30 745 385 18 109 15 1598 -3 1692 -55 283 -329 473 -596 412zM6255 15604 c-63 -5 -175 -25 -235 -41 -30 -8 -68 -18 -85 -23 -134 -35 -348 -146 -493 -257 -274 -209 -494 -541 -570 -863 -55 -230 -52 5 -52 -4280 1 -4075 0 -4036 35 -4180 4 -14 11 -45 17 -70 112 -475 503 -917 963 -1089 33 -13 69 -27 80 -31 11 -5 31 -11 45 -15 14 -3 48 -12 75 -19 162 -43 -34 -41 4205 -41 4226 0 4052 -2 4215 40 338 87 647 290 863 569 75 97 90 120 160 247 81 147 143 349 171 554 8 55 11 642 11 1888 l0 1807 -227 0 c-339 0 -465 -18 -718 -102 -479 -160 -816 -508 -950 -983 -32 -114 -65 -289 -65 -345 0 -61 -74 -131 -137 -129 -87 2 -131 76 -114 194 30 217 5 537 -55 697 -140 374 -440 597 -879 654 -93 12 -577 14 -3130 14 -3011 0 -3020 0 -3053 20 -85 52 -81 189 7 238 l39 22 3034 0 c2632 0 3048 2 3134 15 257 38 437 110 673 268 143 96 330 307 427 484 62 112 72 131 98 198 25 63 34 89 65 190 27 86 61 281 70 405 8 109 22 145 70 177 64 43 158 18 185 -50 9 -20 16 -101 20 -222 10 -275 32 -438 88 -635 5 -19 12 -45 15 -58 3 -12 9 -25 14 -28 5 -3 9 -12 9 -21 0 -27 81 -185 141 -274 142 -212 350 -355 609 -418 106 -25 177 -31 397 -31 l233 0 0 2008 c0 1322 -4 2036 -10 2092 -17 138 -43 258 -77 355 -14 39 -28 79 -31 90 -12 41 -105 211 -162 294 -219 323 -561 560 -940 649 -25 6 -70 17 -100 24 -39 9 -158 13 -415 13 l-360 0 -5 -475 c-6 -540 -5 -531 -87 -694 -14 -27 -36 -68 -50 -90 -34 -55 -199 -216 -248 -242 -22 -11 -56 -30 -76 -42 -91 -51 -230 -82 -371 -82 -339 0 -650 230 -764 565 -40 120 -44 175 -44 628 l0 437 -1680 0 -1680 0 0 -442 c0 -516 -3 -545 -88 -728 -57 -125 -200 -280 -321 -348 -13 -8 -38 -22 -56 -32 -128 -72 -354 -100 -523 -65 -304 64 -553 307 -635 620 -6 23 -13 238 -16 515 l-6 475 -310 1 c-170 0 -328 -1 -350 -2z"/></symbol></svg>
 <a class="skip" href="#main">Skip to content</a>
 
 <header class="nav">

diff --git a/src/components/Logo.tsx b/src/components/Logo.tsx
@@ -1,20 +1,11 @@
-import { useId } from "react";
 import { cn } from "../lib/format";
 
 export function Logo({ className }: { className?: string }) {
-  // Unique gradient id: a hidden copy of the logo (e.g. desktop sidebar on mobile) would otherwise break the reference.
-  const id = useId();
+  // A calendar page crossed by the flare (Cloudflare orange, cream glyph); same mark as public/favicon.svg.
   return (
-    <svg viewBox="0 0 64 64" className={cn("size-8", className)} aria-hidden>
-      <defs>
-        <linearGradient id={id} x1="0" y1="0" x2="1" y2="1">
-          <stop offset="0" stopColor="#fb923c" />
-          <stop offset="1" stopColor="#e11d48" />
-        </linearGradient>
-      </defs>
-      <rect width="64" height="64" rx="16" fill={`url(#${id})`} />
-      {/* A geometric "P" whose bowl holds a four-point flare. */}
-      <path fill="#fff" fillRule="evenodd" d="M17 18a5 5 0 0 1 5-5h11a14 14 0 0 1 0 28h-4v4a6 6 0 0 1-12 0ZM33 18.5Q34.6 25.4 41.5 27Q34.6 28.6 33 35.5Q31.4 28.6 24.5 27Q31.4 25.4 33 18.5Z" />
+    <svg viewBox="0 0 1024 1024" className={cn("size-8", className)} aria-hidden>
+      <rect width="1024" height="1024" rx="256" fill="#FF500A" />
+      <path transform="scale(0.5) translate(0.000000,2048.000000) scale(0.100000,-0.100000)" fill="#FFFBF5" d="M7640 16865 c-218 -50 -373 -212 -409 -426 -15 -92 -15 -1598 0 -1688 42 -248 257 -431 503 -431 233 0 407 127 497 360 11 28 14 201 14 920 l0 885 -24 60 c-96 236 -347 374 -581 320zM12650 16865 c-222 -50 -374 -198 -410 -397 -17 -93 -9 -1755 9 -1793 8 -16 24 -54 38 -83 30 -69 141 -179 217 -216 324 -159 688 30 745 385 18 109 15 1598 -3 1692 -55 283 -329 473 -596 412zM6255 15604 c-63 -5 -175 -25 -235 -41 -30 -8 -68 -18 -85 -23 -134 -35 -348 -146 -493 -257 -274 -209 -494 -541 -570 -863 -55 -230 -52 5 -52 -4280 1 -4075 0 -4036 35 -4180 4 -14 11 -45 17 -70 112 -475 503 -917 963 -1089 33 -13 69 -27 80 -31 11 -5 31 -11 45 -15 14 -3 48 -12 75 -19 162 -43 -34 -41 4205 -41 4226 0 4052 -2 4215 40 338 87 647 290 863 569 75 97 90 120 160 247 81 147 143 349 171 554 8 55 11 642 11 1888 l0 1807 -227 0 c-339 0 -465 -18 -718 -102 -479 -160 -816 -508 -950 -983 -32 -114 -65 -289 -65 -345 0 -61 -74 -131 -137 -129 -87 2 -131 76 -114 194 30 217 5 537 -55 697 -140 374 -440 597 -879 654 -93 12 -577 14 -3130 14 -3011 0 -3020 0 -3053 20 -85 52 -81 189 7 238 l39 22 3034 0 c2632 0 3048 2 3134 15 257 38 437 110 673 268 143 96 330 307 427 484 62 112 72 131 98 198 25 63 34 89 65 190 27 86 61 281 70 405 8 109 22 145 70 177 64 43 158 18 185 -50 9 -20 16 -101 20 -222 10 -275 32 -438 88 -635 5 -19 12 -45 15 -58 3 -12 9 -25 14 -28 5 -3 9 -12 9 -21 0 -27 81 -185 141 -274 142 -212 350 -355 609 -418 106 -25 177 -31 397 -31 l233 0 0 2008 c0 1322 -4 2036 -10 2092 -17 138 -43 258 -77 355 -14 39 -28 79 -31 90 -12 41 -105 211 -162 294 -219 323 -561 560 -940 649 -25 6 -70 17 -100 24 -39 9 -158 13 -415 13 l-360 0 -5 -475 c-6 -540 -5 -531 -87 -694 -14 -27 -36 -68 -50 -90 -34 -55 -199 -216 -248 -242 -22 -11 -56 -30 -76 -42 -91 -51 -230 -82 -371 -82 -339 0 -650 230 -764 565 -40 120 -44 175 -44 628 l0 437 -1680 0 -1680 0 0 -442 c0 -516 -3 -545 -88 -728 -57 -125 -200 -280 -321 -348 -13 -8 -38 -22 -56 -32 -128 -72 -354 -100 -523 -65 -304 64 -553 307 -635 620 -6 23 -13 238 -16 515 l-6 475 -310 1 c-170 0 -328 -1 -350 -2z" />
     </svg>
   );
 }
